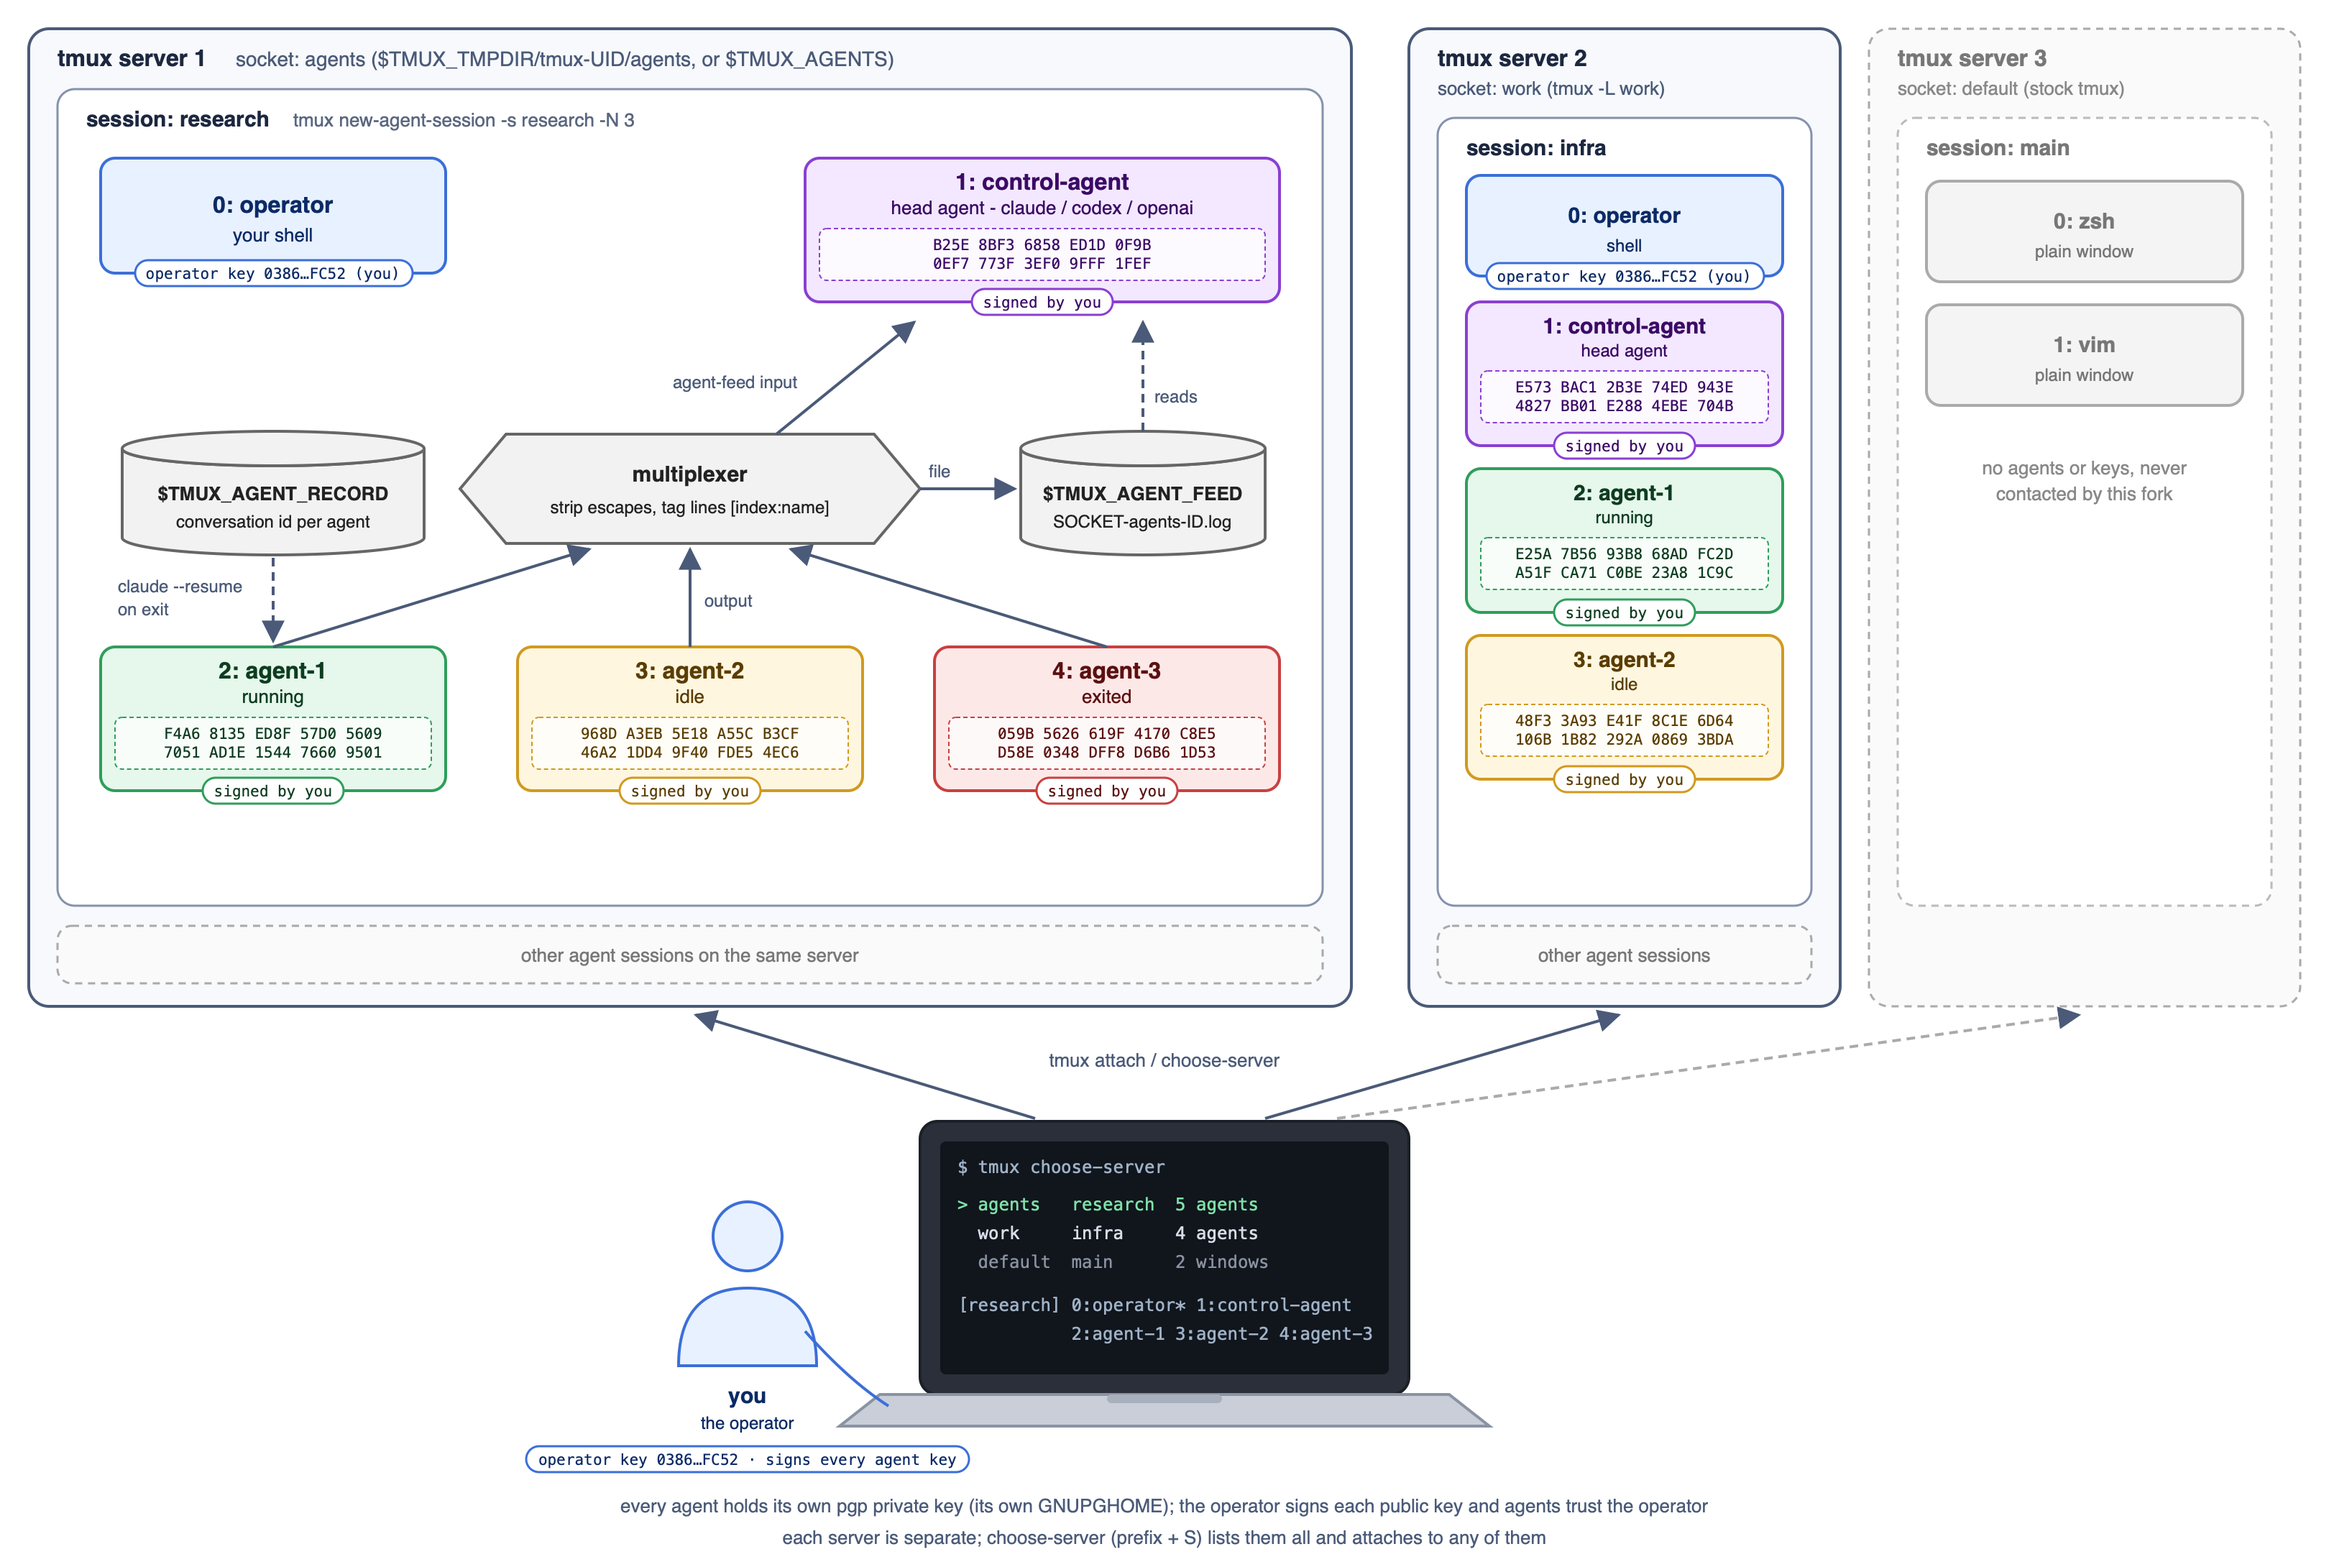
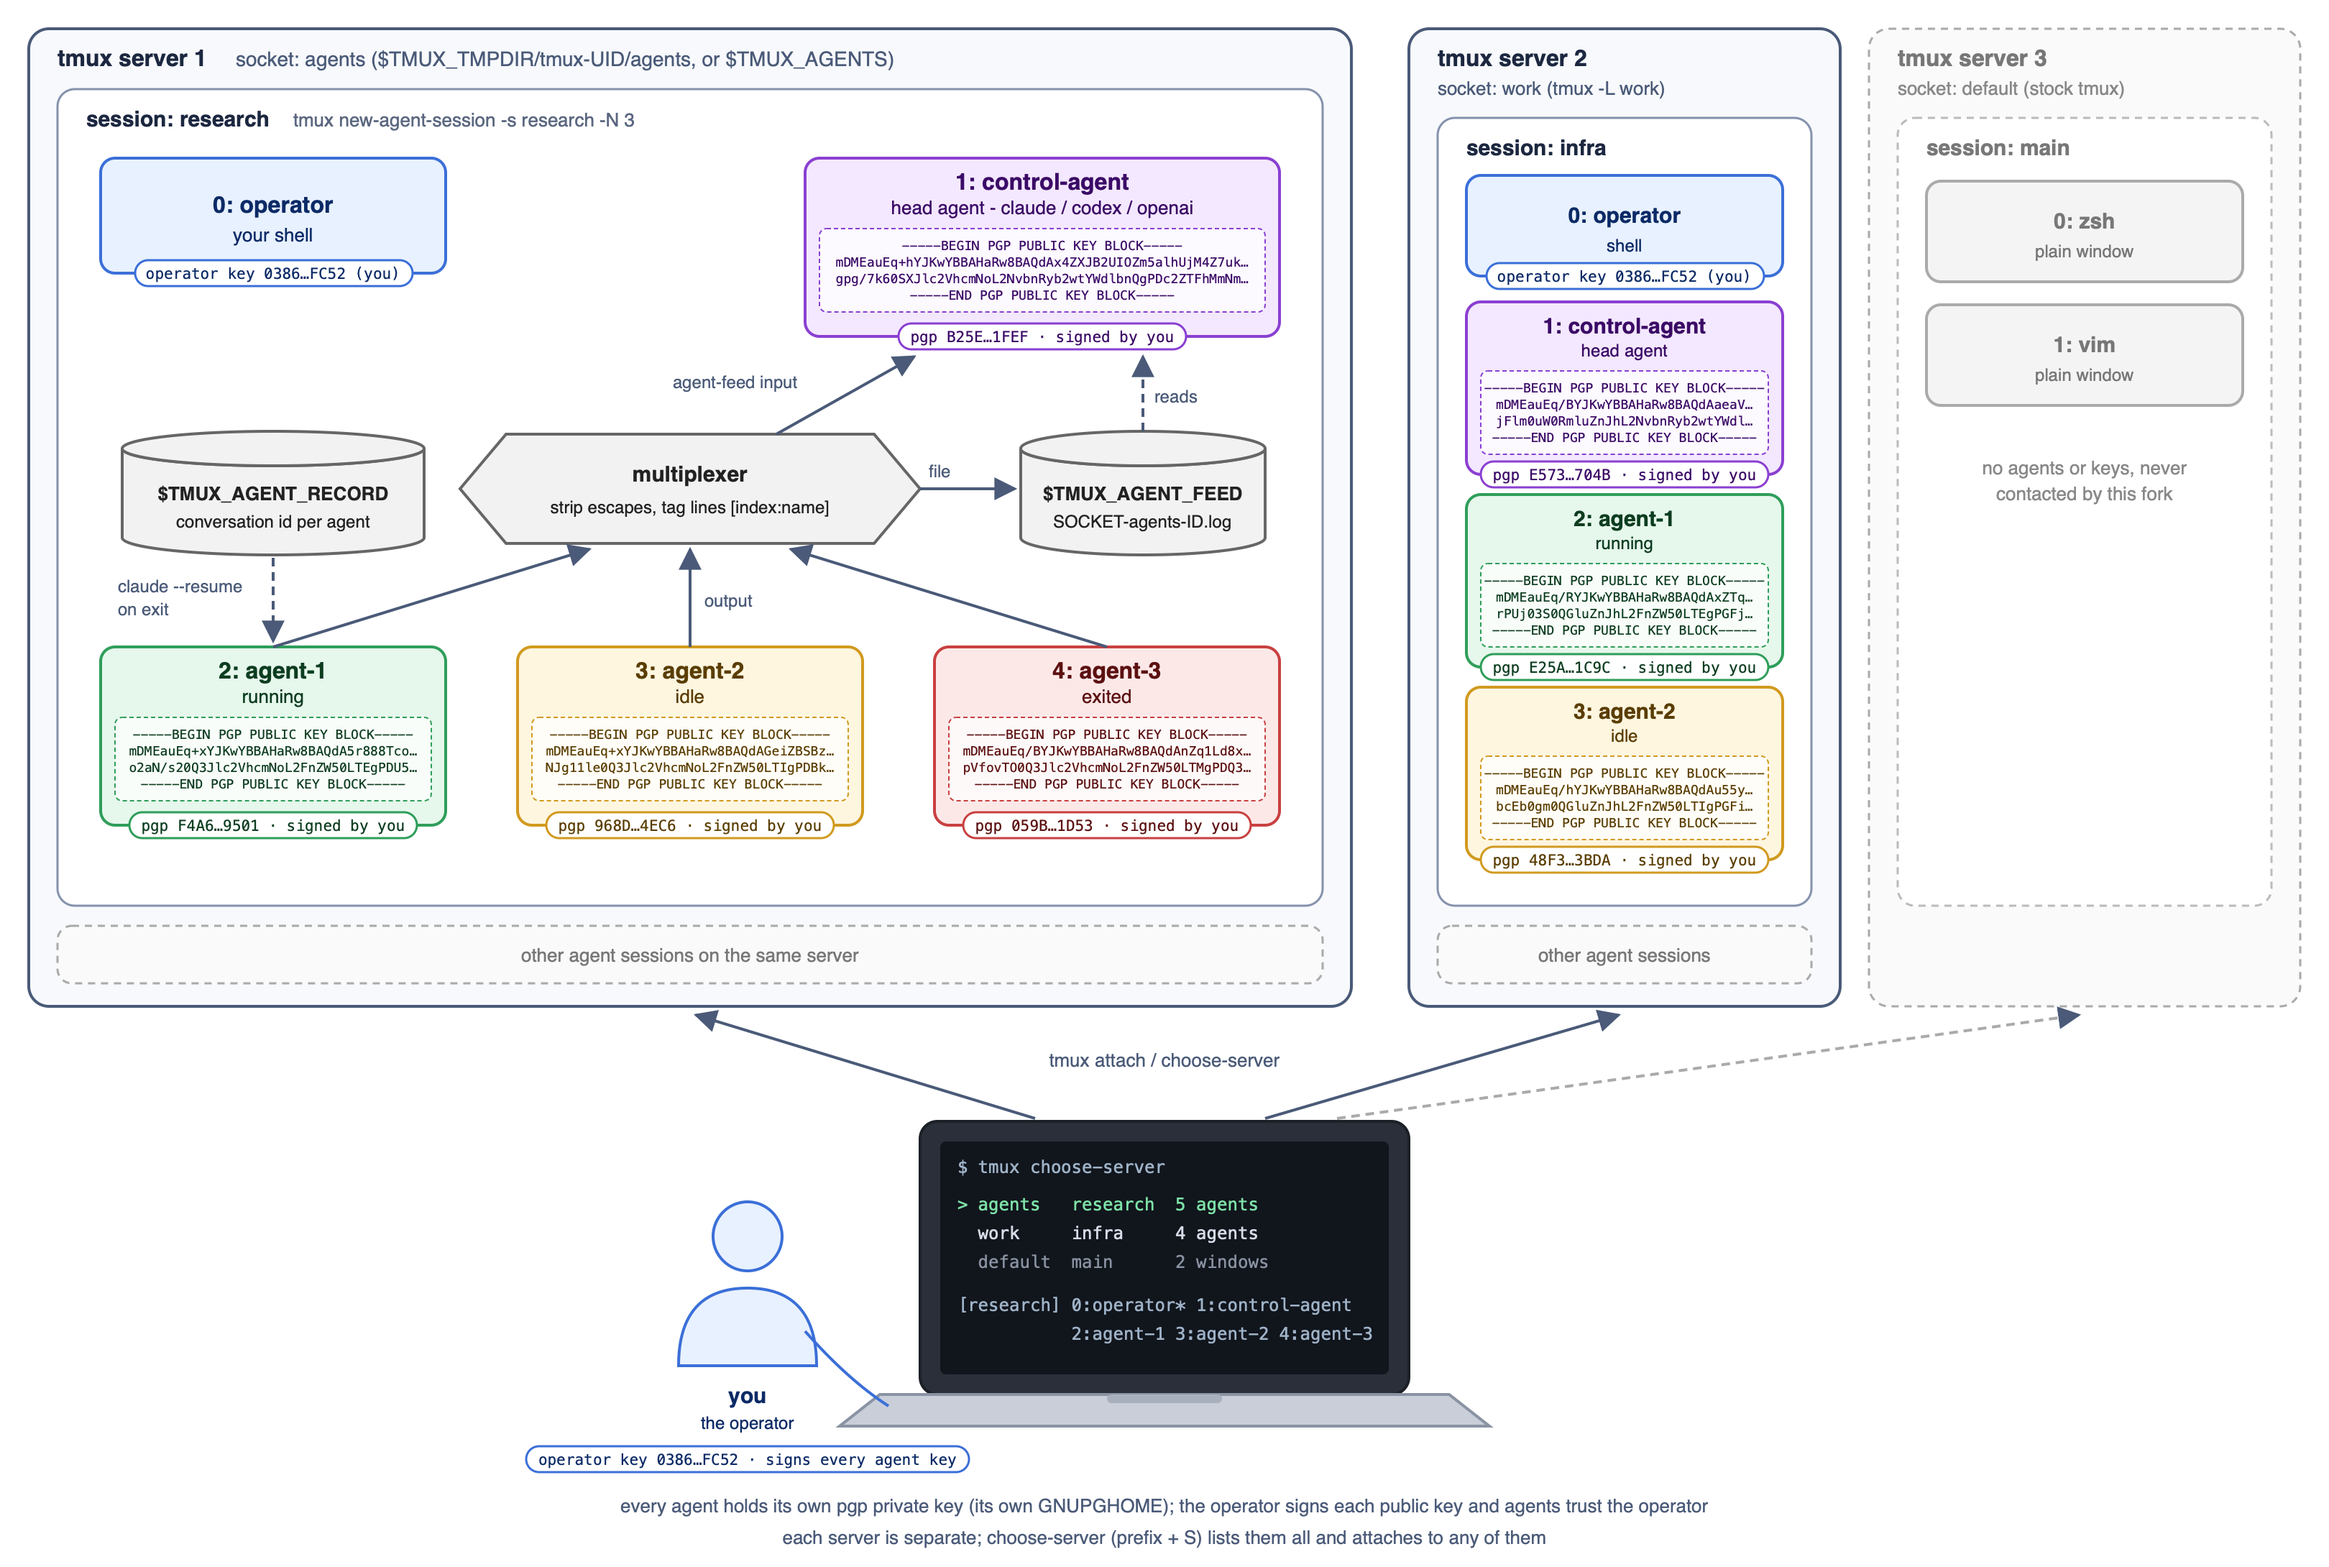
show agent public keys in choose-server and the agent diagram
Add a window_agent_key format with the agent's key fingerprint and show it
beside each agent in choose-server. The preview for an agent on this server
starts with its armored public key. Put the armored public keys back in the
agent diagram in place of the fingerprints.

diff --git a/window-server.c b/window-server.c
@@ -63,7 +63,7 @@ static void		 window_server_key(struct window_mode_entry *,
 #define WINDOW_SERVER_FORMAT \
 	"#{session_name}\t#{session_attached}\t#{session_agents}\t" \
 	"#{window_index}\t#{window_name}\t#{window_agent}\t" \
-	"#{window_agent_status}\t#{window_active}"
+	"#{window_agent_status}\t#{window_active}\t#{window_agent_key}"
 
 static const struct menu_item window_server_menu_items[] = {
 	{ "Select", '\r', NULL },
@@ -499,9 +499,9 @@ window_server_build_server(struct window_server_modedata *data,
 {
 	struct window_server_itemdata	*item;
 	struct mode_tree_item		*mti, *smti = NULL;
-	char				*copy, *next, *line, *f[8], *text;
+	char				*copy, *next, *line, *f[9], *text;
 	char				*last = NULL, *shown, *copy2, *next2;
-	char				*line2, *g[8], *name;
+	char				*line2, *g[9], *name, *key = NULL;
 	u_int				 nsessions = 0, count;
 	int				 idx;
 
@@ -564,9 +564,14 @@ window_server_build_server(struct window_server_modedata *data,
 
 		idx = (int)strtonum(f[3], 0, INT_MAX, NULL);
 		if (*f[6] != '\0') {
-			xasprintf(&text, "%s%s [%s]%s", f[4],
+			if (*f[8] != '\0')
+				xasprintf(&key, " %s", f[8]);
+			xasprintf(&text, "%s%s [%s]%s%s", f[4],
 			    *f[7] == '1' ? "*" : "", f[6],
-			    strcmp(f[5], "control") == 0 ? " (control)" : "");
+			    strcmp(f[5], "control") == 0 ? " (control)" : "",
+			    key != NULL ? key : "");
+			free(key);
+			key = NULL;
 		} else
 			xasprintf(&text, "%s%s", f[4], *f[7] == '1' ? "*" : "");
 		xasprintf(&name, "%d", idx);
@@ -661,6 +666,65 @@ window_server_draw_text(struct screen_write_ctx *ctx, const char *text,
 	free(copy);
 }
 
+/* An agent's armored public key, if it has one. */
+static char *
+window_server_public_key(struct window *w)
+{
+	struct evbuffer	*evb;
+	FILE		*f;
+	char		*home, *path, buf[BUFSIZ], *out = NULL;
+	size_t		 n;
+
+	if (w->agent_id == NULL || w->agent_key == NULL)
+		return (NULL);
+	home = agent_key_home(w);
+	xasprintf(&path, "%s/public.asc", home);
+	free(home);
+	f = fopen(path, "r");
+	free(path);
+	if (f == NULL)
+		return (NULL);
+
+	evb = evbuffer_new();
+	while ((n = fread(buf, 1, sizeof buf, f)) != 0)
+		evbuffer_add(evb, buf, n);
+	fclose(f);
+	if (EVBUFFER_LENGTH(evb) != 0) {
+		evbuffer_add(evb, "", 1);
+		out = xstrdup((const char *)EVBUFFER_DATA(evb));
+	}
+	evbuffer_free(evb);
+	return (out);
+}
+
+/*
+ * Draw an agent's public key at the top of the preview and return how many
+ * lines it took, leaving one blank line under it.
+ */
+static u_int
+window_server_draw_key(struct screen_write_ctx *ctx, struct window *w,
+    u_int sx, u_int sy)
+{
+	struct screen	*s = ctx->s;
+	u_int		 cx = s->cx, cy = s->cy, i = 0;
+	char		*key, *copy, *next, *line;
+
+	if ((key = window_server_public_key(w)) == NULL)
+		return (0);
+	copy = next = key;
+	while ((line = strsep(&next, "\n")) != NULL && i < sy) {
+		if (*line == '\0' && (next == NULL || *next == '\0'))
+			break;
+		screen_write_cursormove(ctx, cx, cy + i++, 0);
+		screen_write_nputs(ctx, sx, &grid_default_cell, "%s", line);
+	}
+	free(copy);
+	if (i < sy)
+		i++;
+	screen_write_cursormove(ctx, cx, cy + i, 0);
+	return (i);
+}
+
 static void
 window_server_draw(void *modedata, void *itemdata,
     struct screen_write_ctx *ctx, u_int sx, u_int sy)
@@ -671,6 +735,7 @@ window_server_draw(void *modedata, void *itemdata,
 	struct session			*s;
 	struct winlink			*wl;
 	char				*target, *text;
+	u_int				 used;
 	const char			*args[] = { "capture-pane", "-p", "-t",
 					    NULL };
 
@@ -690,9 +755,15 @@ window_server_draw(void *modedata, void *itemdata,
 			wl = winlink_find_by_index(&s->windows, item->idx);
 		else
 			wl = s->curw;
-		if (wl != NULL)
+		if (wl == NULL)
+			return;
+		used = 0;
+		if (item->type == WINDOW_SERVER_WINDOW)
+			used = window_server_draw_key(ctx, wl->window, sx, sy);
+		if (used < sy) {
 			screen_write_preview(ctx, &wl->window->active->base, sx,
-			    sy);
+			    sy - used);
+		}
 		return;
 	}
 

diff --git a/format.c b/format.c
@@ -2166,6 +2166,15 @@ format_cb_window_agent_status(struct format_tree *ft)
 	return (NULL);
 }
 
+/* Callback for window_agent_key. */
+static void *
+format_cb_window_agent_key(struct format_tree *ft)
+{
+	if (ft->w != NULL && ft->w->agent_key != NULL)
+		return (xstrdup(ft->w->agent_key));
+	return (NULL);
+}
+
 /* Callback for session_agents. */
 static void *
 format_cb_session_agents(struct format_tree *ft)
@@ -2955,6 +2964,9 @@ static const struct format_table_entry format_table[] = {
 	},
 	{ "window_agent", FORMAT_TABLE_STRING,
 	  format_cb_window_agent
+	},
+	{ "window_agent_key", FORMAT_TABLE_STRING,
+	  format_cb_window_agent_key
 	},
 	{ "window_agent_status", FORMAT_TABLE_STRING,
 	  format_cb_window_agent_status

diff --git a/tmux.h b/tmux.h
@@ -3105,6 +3105,7 @@ int		 agent_restore(struct window_pane *);
 void		 agent_save(struct session *);
 void		 agent_spawn_environ(struct window *, struct environ *);
 void		 agent_identity(struct session *, struct window *);
+char		*agent_key_home(struct window *);
 
 /* cmd-new-session.c */
 enum cmd_retval	 cmd_new_session_run(struct cmd *, struct cmdq_item *, int);

diff --git a/agent.c b/agent.c
@@ -460,7 +460,7 @@ agent_restore(struct window_pane *wp)
 }
 
 /* GnuPG home directory holding an agent's keys, as an absolute path. */
-static char *
+char *
 agent_key_home(struct window *w)
 {
 	char	*copy, *path, dir[PATH_MAX];

diff --git a/README.md b/README.md
@@ -40,8 +40,9 @@ Aliases: `newas` and `newa`.
 Shows every tmux server with a socket in the socket directory (this fork's
 `agents`, a stock `default` and any `-L` servers), with their sessions and
 windows underneath. Agent sessions list their agents with their status
-(`running`, `idle` or `exited`). The preview shows the selected window, even
-on another server.
+(`running`, `idle` or `exited`) and their key fingerprint. The preview shows
+the selected window, even on another server; for an agent on this server it
+starts with the agent's armored public key.
 
 Enter on a session or window of another server replaces the client with one
 attached to that server, using the binary that runs it, so a stock tmux
